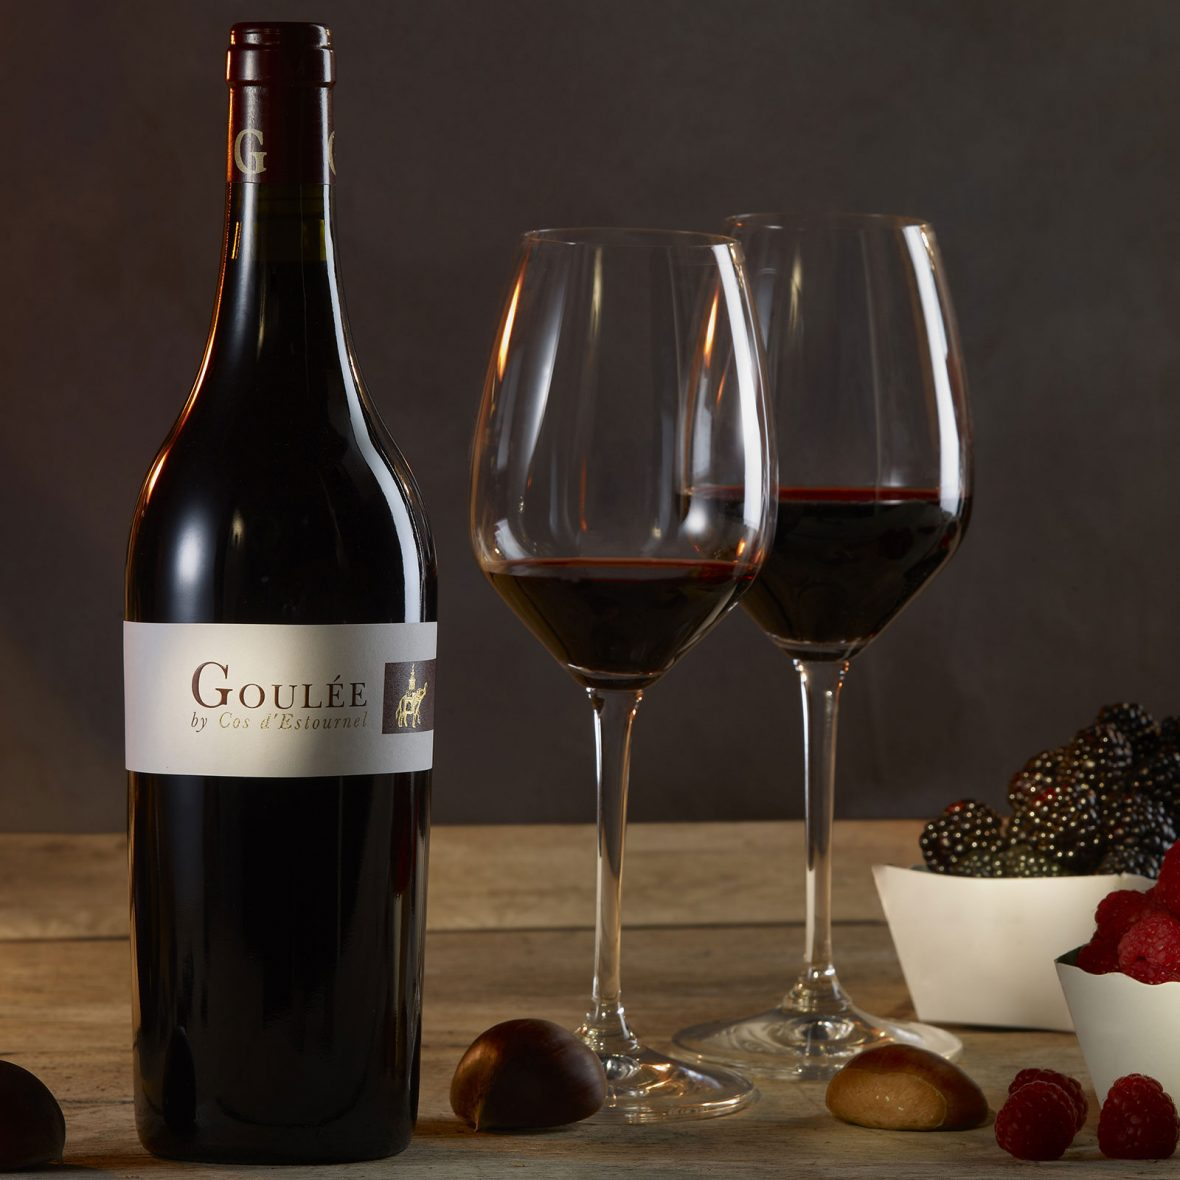
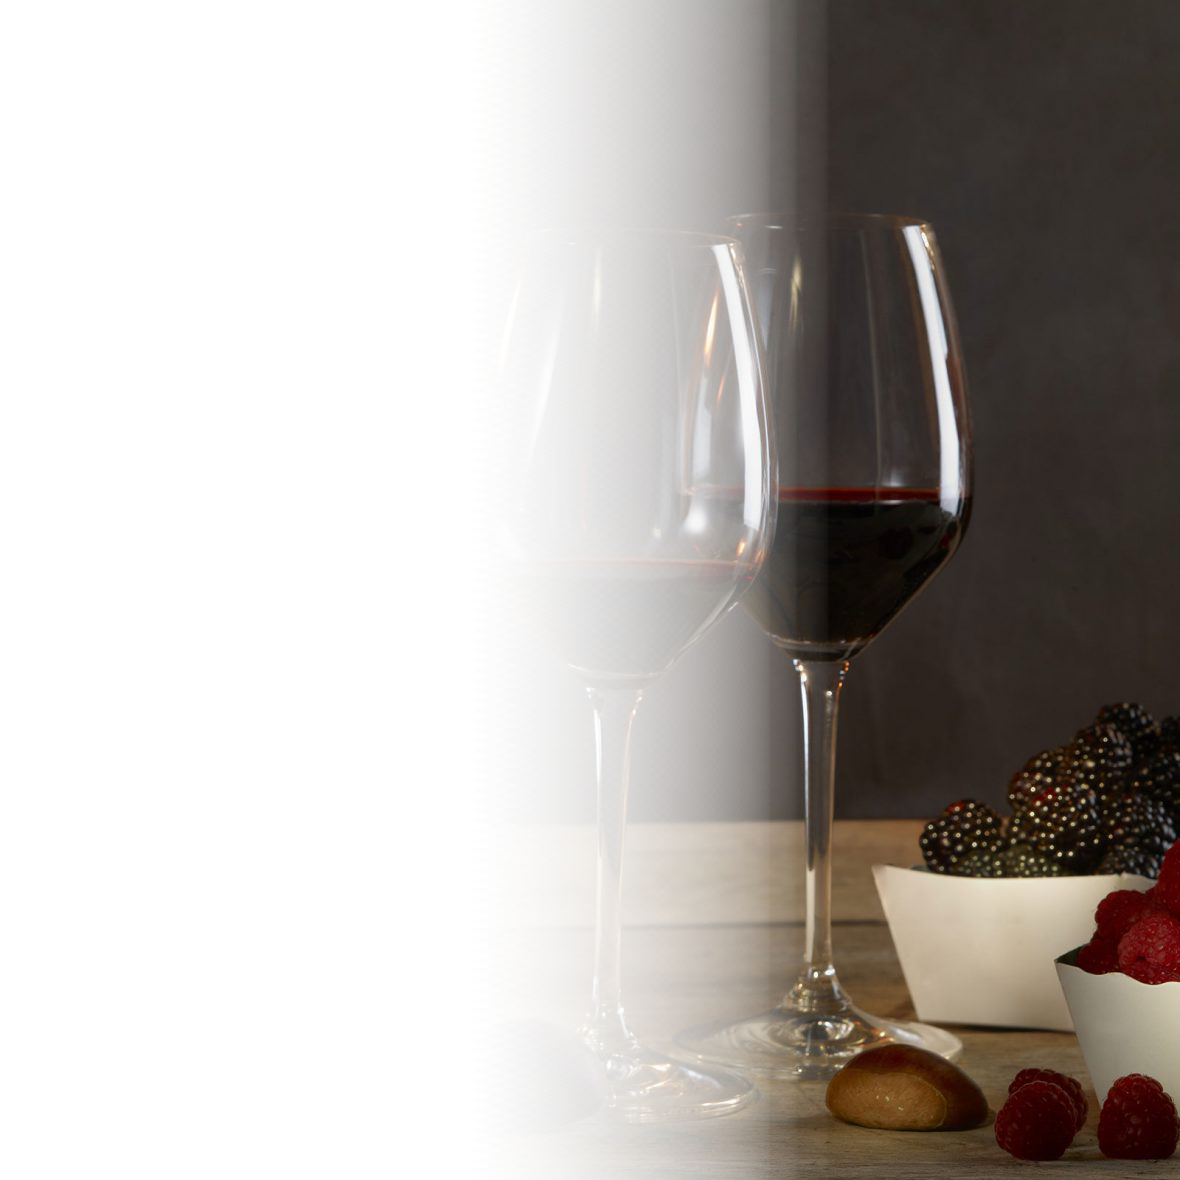
version quasi finale de l'accueil, il y a juste une erreur a modifier et les media queries à faire

diff --git a/website/src/app/page.tsx b/website/src/app/page.tsx
@@ -12,10 +12,9 @@ export default function Home() {
           <Header />
         </div>
       </a>
-      <div className="container mx-auto p-12 my-4">
-        <div className="flex flex-col md:flex-row items-center">
-          <div className="md:w-1/2 mb-4 md:mb-0 bg-gradient-to-r from-gray-300 to-transparent p-1 rounded-xl">
-            <div className=" h-full w-full bg-white rounded-lg pl-2">
+      <div className="container mx-auto px-12 py-4">
+        <div className="flex flex-col md:flex-row items-center md:bg-[url(../../public/images/vin_accueil.jpg)] bg-clip-border bg-cover bg-center h-96 rounded-lg mb-4">
+          <div className="md:w-1/2 mb-4 md:mb-0">
               <p className="text-lg md:text-xl mb-4">
                 Bienvenue chez NegoSud, votre partenaire de confiance pour l'achat de vins en ligne.
               </p>
@@ -28,31 +27,17 @@ export default function Home() {
                   <path stroke="currentColor" stroke-linecap="round" stroke-linejoin="round" stroke-width="2" d="M1 5h12m0 0L9 1m4 4L9 9"/>
                 </svg>
               </a>
-            </div>
-          </div>
-          <div className="md:w-1/2 md:h-1/2 flex justify-center">
-              <img src={ImgIllustration1.src} alt="Description de l'image" className="rounded-full h-96 w-96" />
           </div>
         </div>
 
-        <div className="flex flex-col md:flex-row items-center mt-8">
-          <div className="md:w-1/2 order-2 md:order-1 md:mr-8 flex justify-center">
-              <img src={ImgIllustration2.src} alt="Description de l'image" className="rounded-full h-96 w-96" />
-          </div>
-          <div className="md:w-1/2 order-1 md:order-2 mb-5 bg-gradient-to-r from-transparent to-gray-300 p-1 rounded-xl">
-            <div className=" h-full w-full bg-white rounded-lg pl-2">
+        <div className="flex flex-col md:flex-row items-center md:bg-[url(../../public/images/femme_rose.png)] bg-clip-border bg-cover bg-center h-96 rounded-lg text-right justify-end">
+          <div className="md:w-1/2 order-1 md:order-2">
               <p className="text-lg md:text-xl mb-3">
                 Explorez nos sélections de vins exceptionnels, soigneusement choisis pour votre plaisir.
               </p>
-              <p className="text-lg md:text-xl mb-3">
+              <p className="text-lg md:text-xl">
                 Chez NegoSud, nous nous engageons à vous offrir une expérience de dégustation unique.
               </p>
-              <p className="text-lg md:text-xl">
-                Nos fournisseur sont choisis avec une précision comparable à de l'élitisme.
-                <br/>
-                Tandis-que nos vignerons sont une parfaite représentation du capitalisme.
-              </p>
-            </div>
           </div>
         </div>
       </div>
